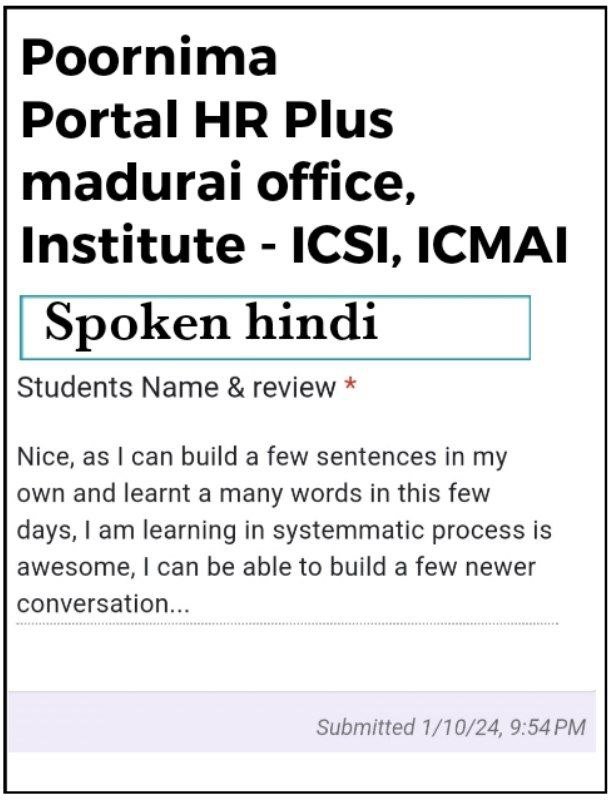
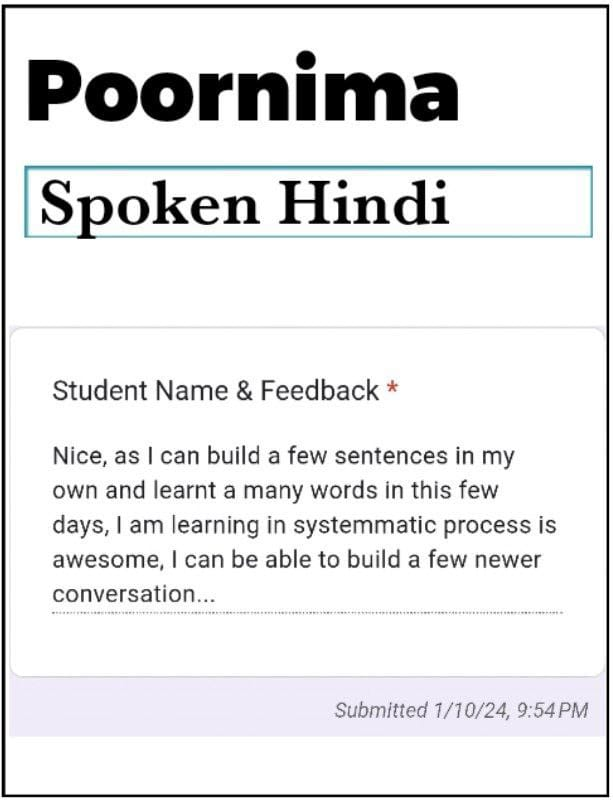
modified:   feedback.html 	modified:   gallery.html 	modified:   images/feed-images/review4.jpg 	new file:   images/gallery/img4.jpg

Changed region(s): [[0.0, 0.0, 1.0, 1.0]]

diff --git a/gallery.html b/gallery.html
@@ -42,6 +42,7 @@
             <img class="gal-pic" src="/images/gallery/img1.jpg">
             <img class="gal-pic" src="/images/gallery/img2.jpg">
             <img class="gal-pic" src="/images/gallery/img3.jpg">
+            <img class="gal-pic" src="/images/gallery/img4.jpg">
             <iframe class="gal-vid" src="https://www.youtube.com/embed/mdlAcGCAcOc" title="My Hindi student singing song🥰" frameborder="0" allow="encrypted-media" allowfullscreen></iframe>
             <iframe class="gal-vid" src="https://www.youtube.com/embed/JT0qOsVnosk" title="Spoken hindi class #cbsehindi #hindispokenword #hindivocabulary #hindispoken #hindivocabulary" frameborder="0" allow="encrypted-media" allowfullscreen></iframe>
             <iframe class="gal-vid" src="https://www.youtube.com/embed/OtwqC1XDt5U" title="Spoken hindi for kids #hindivocabulary #cbsehindi #hindispokenword" frameborder="0" allow="encrypted-media" allowfullscreen></iframe>

diff --git a/feedback.html b/feedback.html
@@ -33,7 +33,7 @@
                 <img src="images/feed-images/review1.jpg">
                 <img src="images/feed-images/review2.jpg">
                 <img src="images/feed-images/review3.jpg">
-                <!--img src="images/feed-images/review4.jpg"-->
+                <img src="images/feed-images/review4.jpg">
                 <img src="images/feed-images/review5.jpg">
                 <img src="images/feed-images/review6.jpg">
                 <img src="images/feed-images/review7.jpg">
